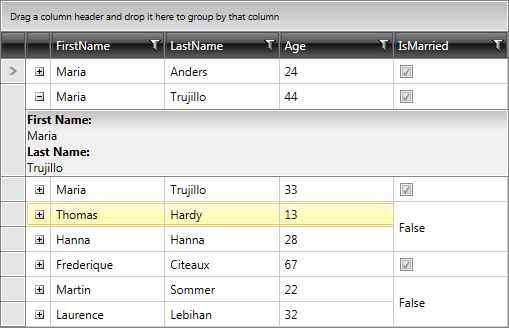
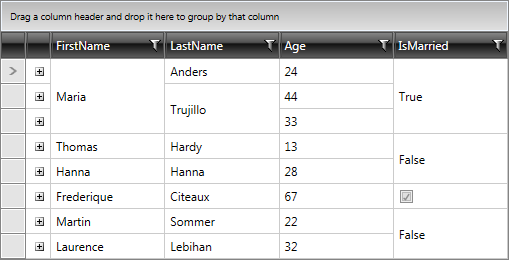
added new image on Merged Cells #158366

diff --git a/controls/radgridview/features/merged-cells.md b/controls/radgridview/features/merged-cells.md
@@ -44,8 +44,7 @@ The __three possible options__ are:
           
 
 __Example 1:__ Configure RadGridView to merge cells vertically
-        
-
+      
 #### __XAML__
 
 {{region gridview-merged-cells_2}}
@@ -67,7 +66,6 @@ Similarly, you can set the cells to be merged horizontally configuring RadGridVi
 
 __Example 2:__ Configure RadGridView to merge cells horizontally
         
-
 #### __XAML__
 
 {{region gridview-merged-cells_3}}
@@ -89,28 +87,38 @@ You can also configure merging for GridViewDataColumn through setting its __IsCe
 
 __Example 3:__ Configure cell merging per column
         
-
 #### __XAML__
 
 {{region gridview-merged-cells_4}}
 
-	<telerik:RadGridView
-	  ColumnWidth="*"
-	  MergedCellsDirection="Vertical"
-	  CanUserFreezeColumns="False"
-	  GroupRenderMode="Flat">
-	  <telerik:RadGridView.Columns>
-	    <telerik:GridViewDataColumn IsCellMergingEnabled="False"/>
-	  </telerik:RadGridView.Columns>
-	</telerik:RadGridView>
+	<telerik:RadGridView Grid.Row="0" 
+                             Name="radGridView" 
+							 ColumnWidth="*" 
+							 MergedCellsDirection="Horizontal"   
+                             CanUserFreezeColumns="False"
+							 GroupRenderMode="Flat"
+                             AutoGenerateColumns="False"
+                             RowDetailsTemplate="{StaticResource RowDetailsTemplate}">
+            <telerik:RadGridView.Columns>
+                <telerik:GridViewToggleRowDetailsColumn/>
+                <telerik:GridViewDataColumn DataMemberBinding="{Binding FirstName}"/>
+                <telerik:GridViewDataColumn DataMemberBinding="{Binding LastName}"/>
+                <telerik:GridViewDataColumn DataMemberBinding="{Binding FirstName}" IsCellMergingEnabled="False"/>
+                <telerik:GridViewDataColumn DataMemberBinding="{Binding LastName}" IsCellMergingEnabled="False"/>
+            </telerik:RadGridView.Columns>
+        </telerik:RadGridView>
 {{endregion}}
 
+>Please note RadGridView's definition in __Example 3__ is specific to illustrate it
+
+__Figure 3:__ RadGridView with configured cell merging per column
+
+![gridview merged cells 3](images/gridview_merged_cells_3.png)
+
 Merged cells are also supported when there is [RowDetails]({%slug radgridview-row-details-overview%})/[Hierarchy]({%slug gridview-hierachy-overview%}) defined for RadGridView.
-        
 
 __Example 4:__ Define RowDetailsTemplate
         
-
 #### __XAML__
 
 {{region gridview-merged-cells_5}}
@@ -126,7 +134,6 @@ __Example 4:__ Define RowDetailsTemplate
 {{endregion}}
 
 __Example 5:__ Specify RowDetailsTemplate for RadGridView
-        
 
 #### __XAML__
 
@@ -145,13 +152,13 @@ __Example 5:__ Specify RowDetailsTemplate for RadGridView
 	</telerik:RadGridView>
 {{endregion}}
 
-__Figure 3:__ RadGridView with merged cells and RowDetails defined
-
-![gridview merged cells 3](images/gridview_merged_cells_3.png)
-
-__Figure 4:__ RadGridView with merged cells and RowDetails expanded
+__Figure 4:__ RadGridView with merged cells and RowDetails defined
 
 ![gridview merged cells 4](images/gridview_merged_cells_4.png)
+
+__Figure 5:__ RadGridView with merged cells and RowDetails expanded
+
+![gridview merged cells 5](images/gridview_merged_cells_5.png)
 
 >Once the row details are expanded, the merged cell will be separated into two different subsets. The particular cell that is part of the expanded row will be considered as a single one instead.
           
